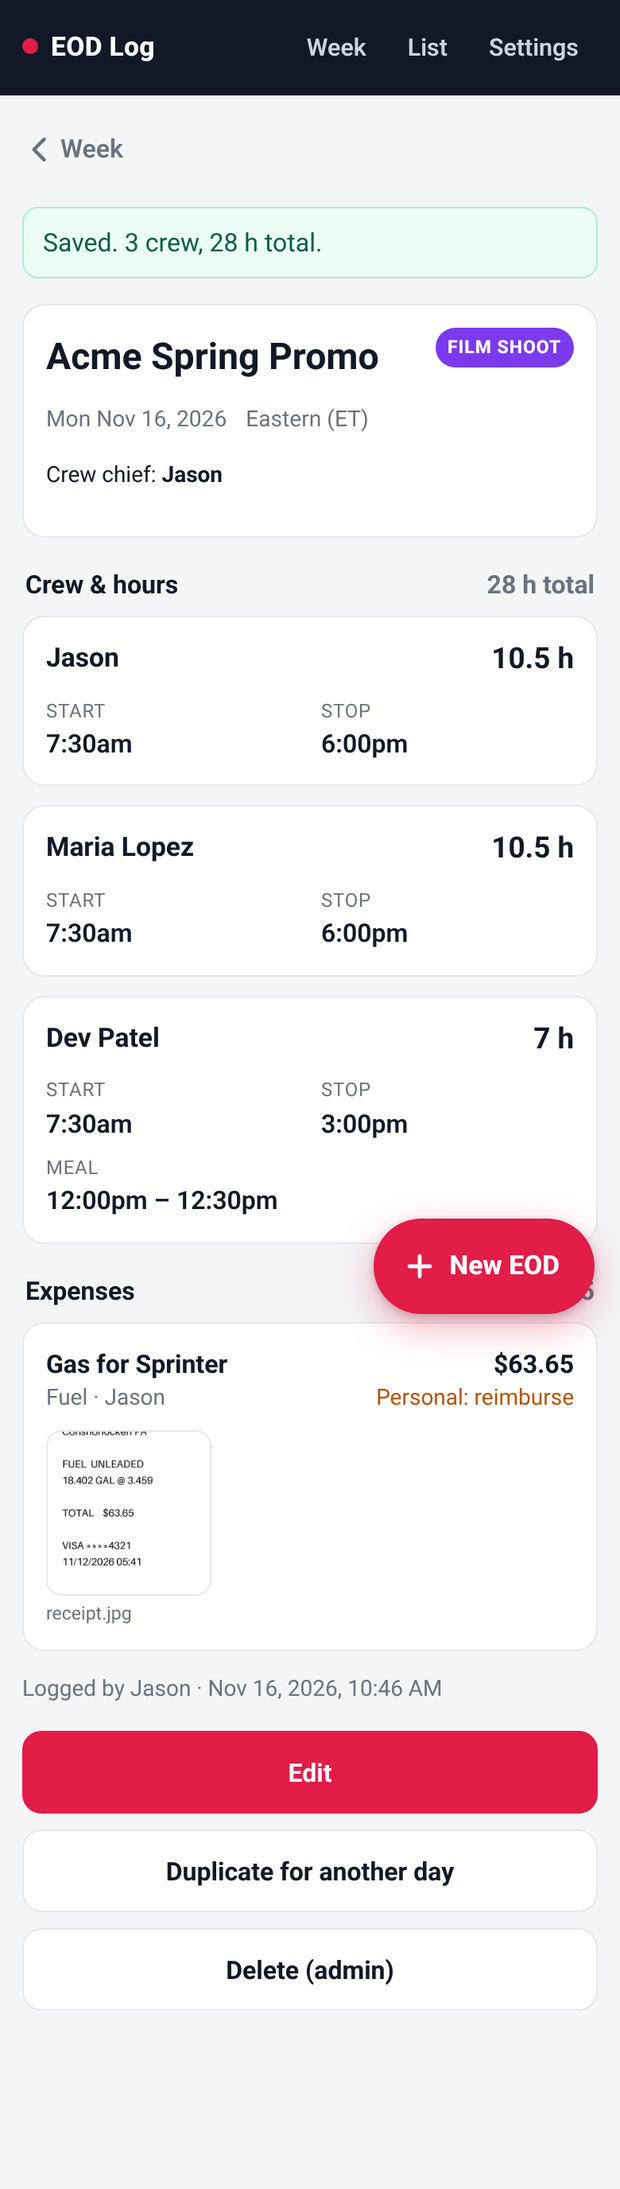
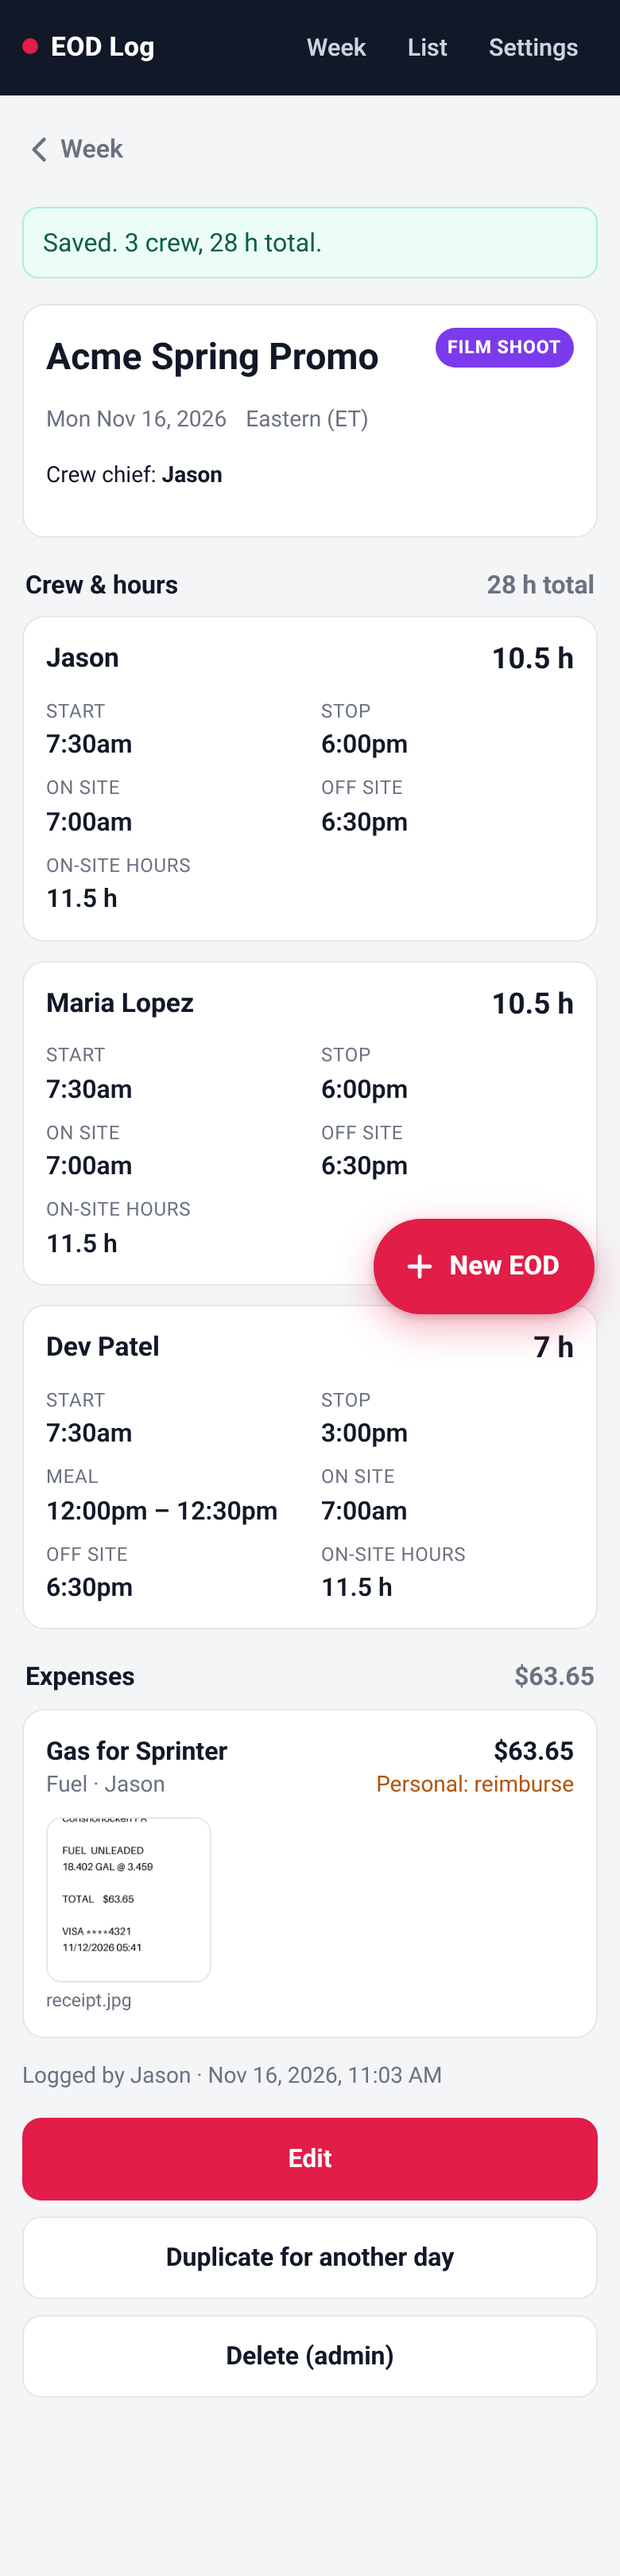
Site time behind + Add site time, drop leave/return shop from UI, desktop text time fields that never silently drop a half-entered time

diff --git a/public/form.js b/public/form.js
@@ -5,7 +5,7 @@
   var crewList = document.getElementById('crew-list');
   var expList = document.getElementById('exp-list');
   var H = window.EODHours;
-  var TIMES = ['start', 'stop', 'on_set', 'wheels_up', 'leave_shop', 'return_shop'];
+  var TIMES = ['start', 'stop', 'on_set', 'wheels_up'];
   var seq = 0;
   var busy = 0;
   var deleteReceipts = [];
@@ -14,29 +14,59 @@
   function el(html) { var t = document.createElement('template'); t.innerHTML = html.trim(); return t.content.firstChild; }
   function q(root, sel) { return root.querySelector(sel); }
   function qa(root, sel) { return Array.prototype.slice.call(root.querySelectorAll(sel)); }
-  function timeInput(f, label, v) { return '<label>' + label + '<input type="time" data-f="' + f + '" value="' + esc(v) + '"></label>'; }
+  // Touch phones get the native time wheel (it always gives a full time). Desktop browsers get a text field instead:
+  // their native time inputs show "--:--" segments and stay EMPTY if only the hour is changed, so nothing saved.
+  var TOUCH = !!(window.matchMedia && matchMedia('(pointer: coarse)').matches);
+  function shown(v) { var n = H.norm(v); if (!n) return v || ''; if (TOUCH) return n; return H.ampm(n).replace(/(am|pm)$/, function (x) { return ' ' + x.toUpperCase(); }); }
+  function tin(attr, v) {
+    return TOUCH ? '<input type="time" ' + attr + ' value="' + esc(H.norm(v) || '') + '">'
+      : '<input type="text" class="tfield" ' + attr + ' value="' + esc(shown(v)) + '" placeholder="hh:mm" list="dl-times" autocomplete="off" autocapitalize="off" spellcheck="false" enterkeyhint="next">';
+  }
+  function setVal(input, v) { input.value = shown(v || ''); input.classList.remove('bad'); }
+  function badTime(input) { return (input.validity && input.validity.badInput) || (input.value.trim() !== '' && !H.norm(input.value)); }
+  function timeInput(f, label, v) { return '<label>' + label + tin('data-f="' + f + '"', v) + '</label>'; }
+  if (!TOUCH) { // quick picker: 15-minute steps as suggestions under each time field
+    var dlt = document.createElement('datalist'); dlt.id = 'dl-times';
+    for (var mm = 0; mm < 1440; mm += 15) { var o = document.createElement('option'); o.value = shown((mm < 600 ? '0' : '') + Math.floor(mm / 60) + ':' + (mm % 60 < 10 ? '0' : '') + mm % 60); dlt.appendChild(o); }
+    document.body.appendChild(dlt);
+    form.addEventListener('focusout', function (ev) {
+      var i = ev.target; if (!i.classList || !i.classList.contains('tfield')) return;
+      var n = H.norm(i.value);
+      if (n) { i.value = shown(n); i.classList.remove('bad'); } else i.classList.toggle('bad', i.value.trim() !== '');
+      var row = i.closest('.crew-row'); if (row) updateCrew(row);
+    });
+    form.addEventListener('input', function (ev) { if (ev.target.classList && ev.target.classList.contains('tfield')) ev.target.classList.remove('bad'); });
+  }
 
   // ---------- crew
   function mealHtml(m) {
     m = m || {};
-    return '<div class="meal"><label>Meal start' + '<input type="time" data-m="start" value="' + esc(m.start) + '"></label>' +
-      '<label>Meal end<input type="time" data-m="end" value="' + esc(m.end) + '"></label>' +
+    return '<div class="meal"><label>Meal start' + tin('data-m="start"', m.start) + '</label>' +
+      '<label>Meal end' + tin('data-m="end"', m.end) + '</label>' +
       '<button type="button" class="rm-meal" aria-label="Remove meal">×</button></div>';
+  }
+  function siteHtml(c) {
+    return '<div class="site"><label>On site' + tin('data-f="on_set"', c.on_set) + '</label>' +
+      '<label>Off site' + tin('data-f="wheels_up"', c.wheels_up) + '</label>' +
+      '<button type="button" class="rm-site" aria-label="Remove site time">×</button></div>';
+  }
+  function setSite(row, c) {
+    var box = q(row, '.sitebox'); box.innerHTML = '';
+    if (c && (c.on_set || c.wheels_up)) box.appendChild(el(siteHtml(c)));
+    q(row, '.addsite').hidden = !!q(row, '.site');
   }
   function addCrew(c, focus) {
     c = c || {}; var id = ++seq;
     if (c.stop === undefined && c.wrap !== undefined) c.stop = c.wrap; // drafts from the old form
-    var moreOpen = c.on_set || c.wheels_up || c.leave_shop || c.return_shop || c.role || c.hours_override != null && c.hours_override !== '' || c.edit_hours != null && c.edit_hours !== '' || c.note;
-    var row = el('<div class="crew-row" data-id="' + id + '">' +
+    var moreOpen = c.role || c.hours_override != null && c.hours_override !== '' || c.edit_hours != null && c.edit_hours !== '' || c.note;
+    var row = el('<div class="crew-row" data-id="' + id + '" data-leave="' + esc(c.leave_shop) + '" data-return="' + esc(c.return_shop) + '">' +
       '<div class="head"><label>Name<input data-f="name" list="dl-people" autocomplete="off" autocapitalize="words" value="' + esc(c.name) + '" placeholder="Crew member"></label>' +
       '<button type="button" class="rm" aria-label="Remove this person">×</button></div>' +
       '<div class="row2">' + timeInput('start', 'Start', c.start) + timeInput('stop', 'Stop', c.stop) + '</div>' +
       '<div class="tot"><span>Hours <span class="muted small" data-detail></span></span><b data-total>–</b></div><div class="warn" data-warn></div>' +
-      '<div class="meals stack"></div><button type="button" class="btn addmeal">+ Add meal break</button>' +
-      '<details' + (moreOpen ? ' open' : '') + '><summary>On site time, role, edit/DIT, more</summary><div class="stack">' +
-      '<p class="small muted">These are for the record. They don\'t change hours.</p>' +
-      '<div class="row2">' + timeInput('on_set', 'On site / set', c.on_set) + timeInput('wheels_up', 'Off site', c.wheels_up) + '</div>' +
-      '<div class="row2">' + timeInput('leave_shop', 'Leave shop', c.leave_shop) + timeInput('return_shop', 'Return to shop', c.return_shop) + '</div>' +
+      '<div class="meals stack"></div><div class="sitebox"></div>' +
+      '<div class="addbtns"><button type="button" class="btn addmeal">+ Add meal break</button><button type="button" class="btn addsite">+ Add site time</button></div>' +
+      '<details' + (moreOpen ? ' open' : '') + '><summary>More: role, edit/DIT, hours override, note</summary><div class="stack">' +
       '<div class="row2"><label>Role<input data-f="role" list="dl-roles" autocomplete="off" value="' + esc(c.role) + '" placeholder="e.g. A1, Camera"></label>' +
       '<label>Edit / DIT hrs<input data-f="edit_hours" inputmode="decimal" value="' + esc(c.edit_hours) + '" placeholder="0"></label></div>' +
       '<label>Hours, if not using start/stop<input data-f="hours_override" inputmode="decimal" value="' + esc(c.hours_override) + '" placeholder="Leave empty to use start/stop"></label>' +
@@ -45,6 +75,7 @@
     var meals = q(row, '.meals');
     (c.meals || []).forEach(function (m) { if (m && (m.start || m.end)) meals.appendChild(el(mealHtml(m))); });
     syncMealBtn(row);
+    setSite(row, c);
     crewList.appendChild(row);
     updateCrew(row);
     if (focus) q(row, '[data-f=name]').focus();
@@ -55,9 +86,14 @@
     var c = { meals: [] };
     qa(row, '[data-f]').forEach(function (i) {
       var f = i.getAttribute('data-f'), v = i.value.trim();
-      c[f] = i.type === 'time' ? (H.norm(v) || '') : v;
-      if (i.type === 'time' && v && !H.norm(v)) c._bad = (c._bad || []).concat(f);
+      var isTime = i.type === 'time' || i.classList.contains('tfield');
+      c[f] = isTime ? (H.norm(v) || '') : v;
+      if (isTime && badTime(i)) c._bad = (c._bad || []).concat(f);
     });
+    if (!q(row, '.site')) { c.on_set = ''; c.wheels_up = ''; }
+    // old entries: keep any saved leave-shop / return-to-shop values untouched (no longer shown)
+    if (row.getAttribute('data-leave')) c.leave_shop = row.getAttribute('data-leave');
+    if (row.getAttribute('data-return')) c.return_shop = row.getAttribute('data-return');
     qa(row, '.meal').forEach(function (m) { c.meals.push({ start: H.norm(q(m, '[data-m=start]').value) || '', end: H.norm(q(m, '[data-m=end]').value) || '' }); });
     return c;
   }
@@ -83,22 +119,26 @@
   crewList.addEventListener('click', function (ev) {
     var row = ev.target.closest('.crew-row'); if (!row) return;
     if (ev.target.closest('.rm')) {
-      if (qa(crewList, '.crew-row').length === 1) { qa(row, 'input').forEach(function (i) { i.value = ''; }); q(row, '.meals').innerHTML = ''; updateCrew(row); }
+      if (qa(crewList, '.crew-row').length === 1) { qa(row, 'input').forEach(function (i) { i.value = ''; }); q(row, '.meals').innerHTML = ''; setSite(row, null); syncMealBtn(row); updateCrew(row); }
       else { row.remove(); updateTotals(); }
       saveDraft();
     } else if (ev.target.closest('.addmeal')) {
       var m = el(mealHtml({})); q(row, '.meals').appendChild(m); syncMealBtn(row); q(m, 'input').focus(); updateCrew(row);
+    } else if (ev.target.closest('.addsite')) {
+      q(row, '.sitebox').appendChild(el(siteHtml({}))); q(row, '.addsite').hidden = true; q(row, '.site input').focus(); updateCrew(row);
+    } else if (ev.target.closest('.rm-site')) {
+      setSite(row, null); updateCrew(row); saveDraft();
     } else if (ev.target.closest('.rm-meal')) {
       ev.target.closest('.meal').remove(); syncMealBtn(row); updateCrew(row); saveDraft();
     }
   });
   function timesOf(row) { var c = readCrew(row), t = { meals: c.meals }; TIMES.forEach(function (f) { t[f] = c[f]; }); return t; }
   function applyTimes(row, t) {
-    TIMES.forEach(function (f) { q(row, '[data-f=' + f + ']').value = t[f] || ''; });
+    setVal(q(row, '[data-f=start]'), t.start); setVal(q(row, '[data-f=stop]'), t.stop);
+    setSite(row, t);
     var meals = q(row, '.meals'); meals.innerHTML = '';
     t.meals.forEach(function (m) { meals.appendChild(el(mealHtml(m))); });
     syncMealBtn(row);
-    if (t.leave_shop || t.on_set || t.wheels_up || t.return_shop) q(row, 'details').open = true;
     updateCrew(row);
   }
   document.getElementById('add-crew').addEventListener('click', function () {
@@ -205,7 +245,10 @@
     var data = collect();
     var job = form.elements.job, date = form.elements.date;
     var firstNameless = qa(crewList, '.crew-row').filter(function (r) { var c = readCrew(r); return !c.name && TIMES.some(function (f) { return c[f]; }); })[0];
-    var problem = !job.value.trim() ? [job, 'Enter the job / project name.'] : !date.value ? [date, 'Pick a date.']
+    var badTimes = qa(crewList, 'input[type=time], input.tfield').filter(badTime);
+    badTimes.forEach(function (i) { i.classList.add('bad'); var d = i.closest('details'); if (d) d.open = true; });
+    var problem = badTimes.length ? [badTimes[0], 'A time is incomplete or not understood (highlighted in red). Enter a full time like 7:30 AM, 1930 or 7:30p, or clear it.']
+      : !job.value.trim() ? [job, 'Enter the job / project name.'] : !date.value ? [date, 'Pick a date.']
       : firstNameless ? [q(firstNameless, '[data-f=name]'), 'A crew row has times but no name. Add the name (or remove the row).']
       : !data.crew.length ? [q(crewList, '[data-f=name]'), 'Add at least one crew member name.'] : null;
     if (problem) { ev.preventDefault(); alert(problem[1]); problem[0].focus(); return; }

diff --git a/src/views.js b/src/views.js
@@ -2,7 +2,7 @@ const cfg = require('./config');
 const H = require('../public/hours.js');
 const { html, raw, prettyDate, rangeLabel, money, addDays, TIMEZONES, tzShort, tzLabel, JOB_TYPES, EXPENSE_CATS, WDL } = require('./util');
 
-const V = '10'; // static asset cache-buster
+const V = '14'; // static asset cache-buster
 const icon = {
   plus: raw('<svg viewBox="0 0 24 24" width="22" height="22" aria-hidden="true"><path d="M12 5v14M5 12h14" stroke="currentColor" stroke-width="2.6" stroke-linecap="round" fill="none"/></svg>'),
   left: raw('<svg viewBox="0 0 24 24" width="22" height="22" aria-hidden="true"><path d="M15 5l-7 7 7 7" stroke="currentColor" stroke-width="2.4" stroke-linecap="round" stroke-linejoin="round" fill="none"/></svg>'),
@@ -128,7 +128,6 @@ ${e.crew.map((c) => html`<div class="card crewcard"><div class="crew-top"><h3>${
 <dl class="times">${row('Start', t(c.start))}${row('Stop', t(c.stop))}
 ${(c.meals || []).map((m, i) => row(`Meal ${c.meals.length > 1 ? i + 1 : ''}`, `${t(m.start) || '?'} – ${t(m.end) || '?'}`))}
 ${row('On site', t(c.on_set))}${row('Off site', t(c.wheels_up))}${row('On-site hours', c.onsite_min != null ? hrs(c.onsite_min) : '')}
-${row('Leave shop', t(c.leave_shop))}${row('Return to shop', t(c.return_shop))}
 ${c.hours_override != null ? row('Hours (typed in)', c.hours_override + ' h') : ''}${row('Edit / DIT', c.edit_hours ? c.edit_hours + ' h' : '')}</dl>
 ${c.note ? html`<p class="small">${c.note}</p>` : ''}</div>`)}
 ${e.expenses.length || general.length ? html`<h2 class="sec">Expenses <span class="muted">${money(e.expense_total)}</span></h2>
@@ -255,7 +254,7 @@ function scheduleForm(req, { sch, isNew }) {
 <label data-show="daily weekdays">Covers<select name="covers"><option value="today"${sel('today', sch.covers)}>That day (send in the evening)</option><option value="yesterday"${sel('yesterday', sch.covers)}>The day before (send in the morning)</option></select></label>
 <p class="small muted" data-show="weekly">A weekly email covers the previous Monday–Sunday.</p>
 <p class="small muted" data-show="weekdays">Monday's email also covers the weekend, so nothing is missed.</p>
-<div class="row2"><label>Send at<input type="time" name="send_time" value="${sch.send_time}" required></label>
+<div class="row2"><label>Send at <span class="muted">(24h, e.g. 08:00 or 18:30)</span><input name="send_time" value="${sch.send_time}" required placeholder="hh:mm" autocomplete="off" pattern="\s*\d{1,2}(:?\d{2})?\s*([aApP][mM]?)?\s*"></label>
 <label>Time zone<select name="tz">${TIMEZONES.map(([v, l]) => html`<option value="${v}"${sel(v, sch.tz)}>${l}</option>`)}</select></label></div>
 <label class="check"><input type="checkbox" name="attach" value="1"${sch.attach ? raw(' checked') : ''}> Attach receipt files (up to 15 MB)</label>
 <p class="small muted">No EODs in the period = no email. Every run is listed in the notification log on the Settings page.</p>

diff --git a/src/server.js b/src/server.js
@@ -113,7 +113,7 @@ app.get('/new', (req, res) => {
   const src = req.query.from && store.get(Number(req.query.from));
   if (src) {
     e = { ...src, id: undefined, date: appToday(), expenses: [], receipts: [], notes: null, issues: null, media_taken: null, media_used: null, miles: null, tolls: null,
-      crew: src.crew.map((c) => ({ name: c.name, role: c.role, leave_shop: c.leave_shop, on_set: c.on_set, start: c.start, stop: c.stop, wheels_up: c.wheels_up, return_shop: c.return_shop, meals: c.meals })) };
+      crew: src.crew.map((c) => ({ name: c.name, role: c.role, on_set: c.on_set, start: c.start, stop: c.stop, wheels_up: c.wheels_up, meals: c.meals })) };
   }
   send(res, views.form(req, { e, sugg: store.suggestions(), isNew: true }));
 });
@@ -238,9 +238,9 @@ function exportEntries(req) {
   return store.search({ ...f, limit: 100000, offset: 0 }).entries.reverse();
 }
 app.get('/export/hours.csv', (req, res) => {
-  const rows = [['date', 'job', 'job_type', 'client', 'location', 'time_zone', 'crew_chief', 'name', 'role', 'start', 'stop', 'meals', 'on_site', 'off_site', 'leave_shop', 'return_shop', 'hours', 'on_site_hours', 'meal_hours', 'hours_typed_in', 'edit_dit_hours', 'entry_url']];
+  const rows = [['date', 'job', 'job_type', 'client', 'location', 'time_zone', 'crew_chief', 'name', 'role', 'start', 'stop', 'meals', 'on_site', 'off_site', 'hours', 'on_site_hours', 'meal_hours', 'hours_typed_in', 'edit_dit_hours', 'entry_url']];
   exportEntries(req).forEach((e) => e.crew.forEach((c) => rows.push([e.date, e.job, e.job_type, e.client, e.location, e.tz, e.crew_chief, c.name, c.role, c.start, c.stop,
-    (c.meals || []).map((m) => `${m.start || '?'}-${m.end || '?'}`).join(' '), c.on_set, c.wheels_up, c.leave_shop, c.return_shop, H.dec(c.paid_min), H.dec(c.onsite_min), H.dec(c.meal_min), c.hours_override, c.edit_hours, `${cfg.PUBLIC_URL}/e/${e.id}`])));
+    (c.meals || []).map((m) => `${m.start || '?'}-${m.end || '?'}`).join(' '), c.on_set, c.wheels_up, H.dec(c.paid_min), H.dec(c.onsite_min), H.dec(c.meal_min), c.hours_override, c.edit_hours, `${cfg.PUBLIC_URL}/e/${e.id}`])));
   res.type('text/csv').attachment('eod-hours.csv').send(csv(rows));
 });
 app.get('/export/expenses.csv', (req, res) => {

diff --git a/public/app.css b/public/app.css
@@ -96,9 +96,14 @@ details.sect>summary{min-height:32px}details.sect[open]>summary{margin-bottom:12
 .crew-row .tot{display:flex;justify-content:space-between;align-items:center;font-size:.9rem;background:var(--card);border-radius:10px;padding:8px 10px;border:1px dashed var(--line)}
 .crew-row .tot b{font-size:1.1rem}
 .crew-row .warn{font-size:.82rem}
-.meal{display:grid;grid-template-columns:1fr 1fr 44px;gap:8px;align-items:end}
+.meal{display:grid;grid-template-columns:1fr 1fr 40px;gap:8px;align-items:end}
 .meal .rm-meal{height:48px;border:1.5px solid var(--line);border-radius:10px;background:var(--card);color:var(--muted);font-size:1.2rem;cursor:pointer}
-.addmeal{align-self:flex-start;min-height:40px;padding:6px 12px;font-size:.9rem}
+.addmeal,.addsite{min-height:40px;padding:6px 12px;font-size:.9rem}
+.addbtns{display:flex;flex-wrap:wrap;gap:8px}
+.site{display:grid;grid-template-columns:1fr 1fr 40px;gap:8px;align-items:end}
+.site .rm-site{height:48px;border:1.5px solid var(--line);border-radius:10px;background:var(--card);color:var(--muted);font-size:1.2rem;cursor:pointer}
+.meal>*,.site>*{min-width:0}
+.meal input,.site input{width:100%;min-width:0;padding-left:10px;padding-right:8px}
 .crew-row details>summary{font-size:.9rem;color:var(--muted);min-height:40px}
 .crew-row details[open]>summary{margin-bottom:10px}
 .exp-row{border:1.5px solid var(--line);border-radius:12px;padding:12px;display:flex;flex-direction:column;gap:10px;background:var(--bg)}
@@ -119,4 +124,5 @@ details.sect>summary{min-height:32px}details.sect[open]>summary{margin-bottom:12
 .tag{display:inline-block;font-size:.72rem;font-weight:800;text-transform:uppercase;letter-spacing:.04em;padding:2px 7px;border-radius:999px;background:var(--line);color:var(--ink)}
 .tag-sent{background:#d1fae5;color:#065f46}.tag-skipped{background:#e5e7eb;color:#374151}.tag-failed{background:#fee2e2;color:#991b1b}.tag-test{background:#dbeafe;color:#1e40af}.tag-sending{background:#fef3c7;color:#92400e}
 .crew-row .tot{order:0}
+input.bad{border-color:var(--danger)!important;outline:3px solid color-mix(in srgb,var(--danger) 30%,transparent)}
 [hidden]{display:none!important}

diff --git a/test/hours.test.js b/test/hours.test.js
@@ -21,7 +21,7 @@ test('overnight: stop before start', () => {
 test('old "wrap" field still works', () => { assert.equal(H.compute({ start: '09:00', wrap: '17:00' }).paidMin, 480); });
 test('override wins', () => { assert.equal(H.compute({ start: '09:00', stop: '17:00', hours_override: '10,5' }).paidMin, 630); });
 test('time formats from different browsers', () => {
-  const cases = { '07:30': '07:30', '7:30': '07:30', '07:30:00': '07:30', '07:30:00.000': '07:30', '7:30 PM': '19:30', '7:30pm': '19:30', '12:15 AM': '00:15', '12:00pm': '12:00', '730': '07:30', '1930': '19:30', '7pm': '19:00', '': null, 'abc': null, '25:00': null, '7': null };
+  const cases = { '07:30': '07:30', '7:30': '07:30', '07:30:00': '07:30', '07:30:00.000': '07:30', '7:30 PM': '19:30', '7:30pm': '19:30', '12:15 AM': '00:15', '12:00pm': '12:00', '730': '07:30', '1930': '19:30', '7pm': '19:00', '': null, 'abc': null, '25:00': null, '7': '07:00', '19': '19:00', '7:30p': '19:30', '7a': '07:00' };
   for (const [k, v] of Object.entries(cases)) assert.equal(H.norm(k), v, k);
   assert.equal(H.compute({ start: '07:30:00', stop: '18:00:00.000' }).paidMin, 630);
 });

diff --git a/public/app.js b/public/app.js
@@ -18,3 +18,8 @@ if (/[?&]saved=1/.test(location.search)) {
   function sync() { document.querySelectorAll('[data-show]').forEach(function (el) { el.hidden = el.getAttribute('data-show').split(' ').indexOf(f.value) < 0; }); }
   f.addEventListener('change', sync); sync();
 })();
+// any form: never submit a half-typed native date/time (the browser reports it as empty)
+document.addEventListener('submit', function (ev) {
+  var bad = Array.prototype.filter.call(ev.target.querySelectorAll('input'), function (i) { return i.validity && i.validity.badInput; });
+  if (bad.length) { ev.preventDefault(); ev.stopImmediatePropagation(); bad.forEach(function (i) { i.classList.add('bad'); }); alert('A date or time is only partly filled in. Finish it or clear it.'); bad[0].focus(); }
+}, true);

diff --git a/public/hours.js b/public/hours.js
@@ -15,7 +15,6 @@
     var m = /^(\d{1,2})(?::?(\d{2}))?(?::\d{2}(?:\.\d+)?)?(am|pm|a|p)?$/.exec(s);
     if (!m) return null;
     var h = +m[1], mi = m[2] ? +m[2] : 0, ap = m[3];
-    if (!m[2] && !ap && m[1].length < 3) return null; // a bare "7" is too ambiguous
     if (ap) { if (h < 1 || h > 12) return null; if (ap[0] === 'p' && h < 12) h += 12; if (ap[0] === 'a' && h === 12) h = 0; }
     if (h > 23 || mi > 59) return null;
     return (h < 10 ? '0' : '') + h + ':' + (mi < 10 ? '0' : '') + mi;

diff --git a/README.md b/README.md
@@ -16,7 +16,8 @@ Built for film shoots, AV installs and live events. Mobile first: big tap target
 
 - **+ New EOD** (floating button on phones): job / project, date, job type (Film shoot, AV install, Live event, Edit / DIT, Other).
 - **Crew & hours, per person.** Each person gets their own **Start** and **Stop**, and that's what makes the hours. Meal breaks are off by default: tap **+ Add meal break** for anyone who took one.
-  A fold-out holds the optional extras: **On site / set** and **Off site** times (shown as a secondary on-site hours figure), Leave shop, Return to shop, role, Edit/DIT hours, a note, and "hours, if not using start/stop" for someone who just knows their total.
+  Site time works the same way: **+ Add site time** reveals **On site** and **Off site** for that person (shown as a secondary on-site hours figure; it never changes the hours). A **More** fold-out holds role, Edit/DIT hours, a note, and "hours, if not using start/stop" for someone who just knows their total.
+  On phones and tablets the time fields use the native time picker. On desktop they are plain text fields: type `7`, `730`, `7:30p` or `19:30` (or pick from the 15-minute list) and it tidies to e.g. `7:30 PM` when you leave the field. A half-typed or unreadable time is outlined in red and the EOD will not save until it is fixed, so nothing is silently dropped.
   Hours are worked out live as you type. **Add crew** starts the new person with the first person's times, and **Copy times to everyone** syncs them.
 - **The rest of the old email** sits in fold-away sections so the quick path stays short: client, location, crew chief, time zone; expenses and receipts; vehicle, miles and tolls; # media taken and used; equipment requested by the client and equipment taken, provided and used; issues and damage; notes.
 - **Expenses**: one line per receipt with amount, category, who paid, and **Company card** or **Personal (reimburse)**. Each line takes photos (camera or library) or PDFs. Big phone photos are shrunk in the browser to about 2000 px JPEG before upload, so uploads are fast and the NAS stays small.
@@ -33,7 +34,7 @@ Built for film shoots, AV installs and live events. Mobile first: big tap target
 
 - **Hours = Stop − Start − any meal breaks entered.** No meal entered = nothing deducted.
 - Stop earlier than Start counts as past midnight (6pm to 2am = 8 h).
-- On site / Off site, Leave shop and Return to shop are for the record only and **never change hours**. When On site and Off site are both filled in, the entry also shows **on-site hours**.
+- On site / Off site are for the record only and **never change hours**. When On site and Off site are both filled in, the entry also shows **on-site hours**.
 - If "hours, if not using times" is filled in, it wins.
 - Edit/DIT hours are tracked separately and shown next to the hours, not added to them.
 
